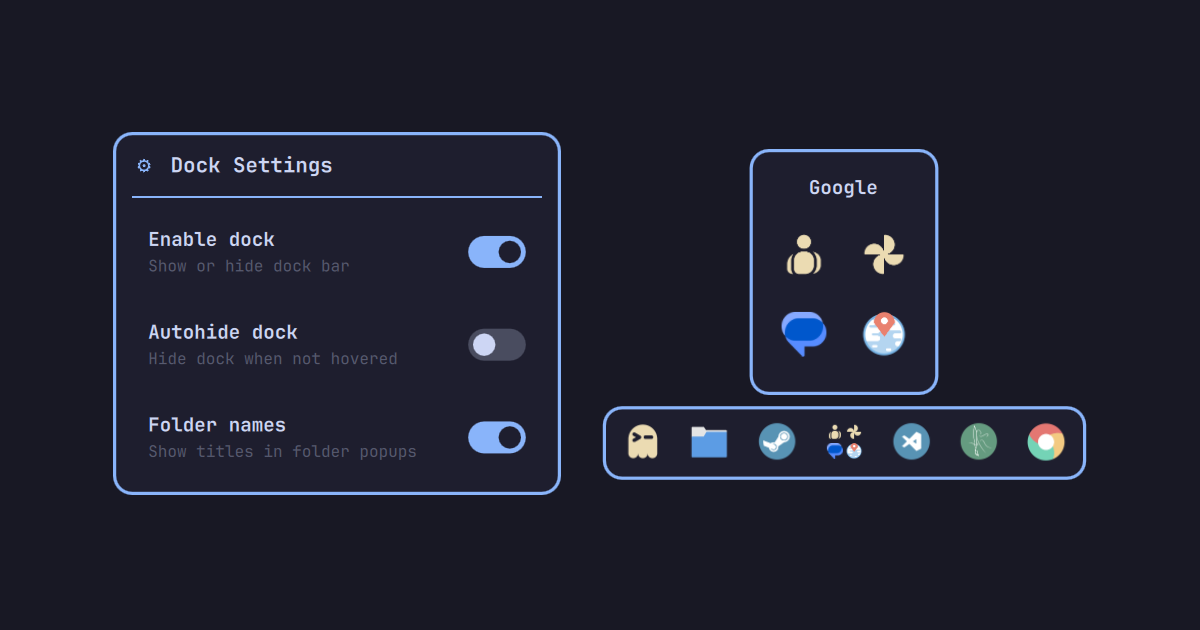
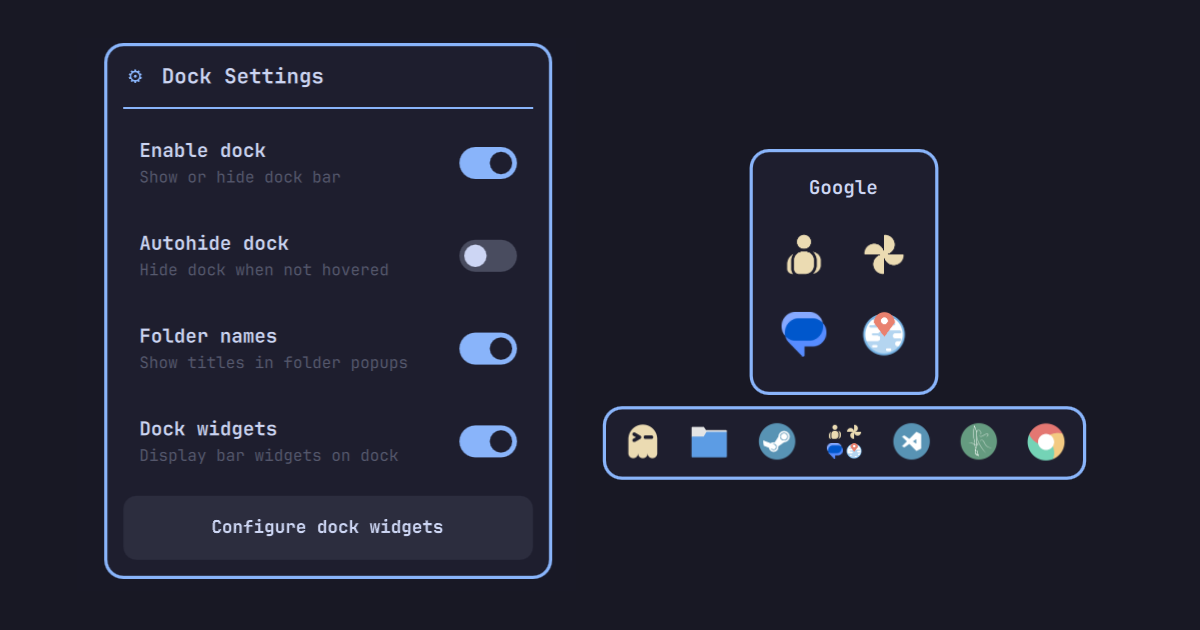
feat(release): bump version to 1.4.1 - ultrawide display scaling, standalone service lifecycle, apps launcher widget, and boot stability

Changed region(s): [[0.0617, 0.0603, 0.4933, 0.9349]]

diff --git a/DockPanel.qml b/DockPanel.qml
@@ -102,10 +102,18 @@ Item {
         function removeWidget(widgetId: string): string { root.removeDockWidget(widgetId, ""); return "ok" }
         function setWidgetsEnabled(val: string): string { root.setWidgetsEnabled(val === "true" || val === "1"); return "ok" }
         function setWidgetPosition(pos: string): string { root.setWidgetPosition(pos); return "ok" }
+        function setEditMode(val: string): string { root.isEditMode = (val === "true" || val === "1"); return "ok" }
         function setDockEnabled(val: string): string { root.dockEnabled = (val === "true" || val === "1"); root.saveSettings(); return "ok" }
         function setAutohide(val: string): string { root.autohide = (val === "true" || val === "1"); root.saveSettings(); return "ok" }
         function setShowFolderTitles(val: string): string { root.showFolderTitles = (val === "true" || val === "1"); root.saveSettings(); return "ok" }
         function ping(): string { return "ok" }
+    }
+
+    function openWidgetPicker() {
+        root.opened = true
+        if (widgetPicker) {
+            widgetPicker.opened = true
+        }
     }
 
     // Methods called by shell.summon / shell.hide / shell.toggle
@@ -307,8 +315,8 @@ Item {
     property bool autohide: false
     property bool showFolderTitles: true
     property bool widgetsEnabled: true
-    property string widgetPosition: "right"
-    property var dockWidgets: []
+    property string widgetPosition: "left"
+    property var dockWidgets: ["omarchy.apps"]
     property var widgetSavedPositions: ({})
     property bool isDockHovered: false
     property bool isStackHovered: false
@@ -372,7 +380,7 @@ Item {
 
     readonly property int activeWidgetsCount: (root.widgetsEnabled && root.dockWidgets) ? root.dockWidgets.length : 0
     readonly property bool hasWidgets: root.activeWidgetsCount > 0
-    readonly property real separatorSize: root.hasWidgets ? 12 : 0
+    readonly property real separatorSize: root.hasWidgets ? 8 : 0
     readonly property real itemsWidth: (root.dockItems.length * root.slotSize)
 
     property string clockDisplayText: ""
@@ -393,6 +401,13 @@ Item {
     readonly property real widgetsWidth: (root.hasClockWidget && !root.isVertical)
         ? ((root.activeWidgetsCount - 1) * root.slotSize + root.clockSlotWidth)
         : (root.activeWidgetsCount * root.slotSize)
+    // Dynamic max items limit for dock bar based on logical screen dimensions & scale (15 items on 1080p @ 1.6x, scales dynamically for Ultrawide 21:9 / 32:9)
+    readonly property real logicalScreenWidth: (screen && screen.width > 0) ? screen.width : 1200
+    readonly property real logicalScreenHeight: (screen && screen.height > 0) ? screen.height : 675
+    readonly property int maxDockItems: root.isVertical
+        ? Math.max(5, Math.round(15 * (logicalScreenHeight / 675)))
+        : Math.max(15, Math.round(15 * (logicalScreenWidth / 1200)))
+
     readonly property real totalDockDimension: Math.max(root.slotSize, itemsWidth + (root.hasWidgets ? (separatorSize + widgetsWidth) : 0))
 
     onDockEnabledChanged: {
@@ -454,6 +469,11 @@ Item {
                 if (s && s.widgetSavedPositions !== undefined && typeof s.widgetSavedPositions === "object") {
                     root.widgetSavedPositions = s.widgetSavedPositions
                 }
+            } else {
+                root.dockWidgets = ["omarchy.apps"]
+                root.widgetPosition = "left"
+                root.widgetsEnabled = true
+                saveSettings()
             }
         } catch(e) {}
     }
@@ -482,8 +502,8 @@ Item {
                 var currentSaved = JSON.parse(JSON.stringify(root.widgetSavedPositions || {}))
                 for (var i = 0; i < root.dockWidgets.length; i++) {
                     var wId = root.dockWidgets[i]
-                    if (wId) {
-                        var defReg = (wId === "omarchy.menu") ? "left" : ((wId === "omarchy.weather" || wId === "omarchy.clock" || wId === "omarchy.system-update" || wId === "omarchy.indicators") ? "center" : "right")
+                    if (wId && wId !== "omarchy.apps") {
+                        var defReg = ((wId === "omarchy.weather" || wId === "omarchy.clock" || wId === "omarchy.system-update" || wId === "omarchy.indicators") ? "center" : "right")
                         currentSaved = DockModel.returnWidgetToBar(root.shell, wId, currentSaved, defReg, shellConfigFile)
                     }
                 }
@@ -506,30 +526,34 @@ Item {
         if (root.dockWidgets && root.dockWidgets.length > 0) {
             for (var i = 0; i < root.dockWidgets.length; i++) {
                 var prevId = root.dockWidgets[i]
-                if (prevId && prevId !== widgetId) {
-                    var prevDefRegion = (prevId === "omarchy.menu") ? "left" : ((prevId === "omarchy.weather" || prevId === "omarchy.clock" || prevId === "omarchy.system-update" || prevId === "omarchy.indicators") ? "center" : "right")
+                if (prevId && prevId !== widgetId && prevId !== "omarchy.apps") {
+                    var prevDefRegion = ((prevId === "omarchy.weather" || prevId === "omarchy.clock" || prevId === "omarchy.system-update" || prevId === "omarchy.indicators") ? "center" : "right")
                     currentSaved = DockModel.returnWidgetToBar(root.shell, prevId, currentSaved, prevDefRegion, shellConfigFile)
                 }
             }
         }
         root.dockWidgets = [widgetId]
-        currentSaved = DockModel.removeWidgetFromBar(root.shell, widgetId, currentSaved, shellConfigFile)
+        if (widgetId !== "omarchy.apps") {
+            currentSaved = DockModel.removeWidgetFromBar(root.shell, widgetId, currentSaved, shellConfigFile)
+        }
         root.widgetSavedPositions = currentSaved
         saveSettings()
     }
 
     function removeDockWidget(widgetId, targetRegion) {
-        var defRegion = targetRegion || ((widgetId === "omarchy.menu") ? "left" : ((widgetId === "omarchy.weather" || widgetId === "omarchy.clock" || widgetId === "omarchy.system-update" || widgetId === "omarchy.indicators") ? "center" : "right"))
+        var defRegion = targetRegion || ((widgetId === "omarchy.weather" || widgetId === "omarchy.clock" || widgetId === "omarchy.system-update" || widgetId === "omarchy.indicators") ? "center" : "right")
         var next = DockModel.removeWidgetFromDockList(root.dockWidgets, widgetId)
         root.dockWidgets = next.slice()
-        var currentSaved = JSON.parse(JSON.stringify(root.widgetSavedPositions || {}))
-        currentSaved = DockModel.returnWidgetToBar(root.shell, widgetId, currentSaved, defRegion, shellConfigFile)
-        root.widgetSavedPositions = currentSaved
+        if (widgetId !== "omarchy.apps") {
+            var currentSaved = JSON.parse(JSON.stringify(root.widgetSavedPositions || {}))
+            currentSaved = DockModel.returnWidgetToBar(root.shell, widgetId, currentSaved, defRegion, shellConfigFile)
+            root.widgetSavedPositions = currentSaved
+        }
         saveSettings()
     }
 
     function getWidgetSource(widgetId) {
-        if (!widgetId) return ""
+        if (!widgetId || widgetId === "omarchy.apps") return ""
         var manifest = (root.shell && root.shell.pluginRegistry && root.shell.pluginRegistry.installedPlugins) ? root.shell.pluginRegistry.installedPlugins[widgetId] : null
         if (manifest && root.shell && root.shell.pluginRegistry) {
             var ep = root.shell.pluginRegistry.entryPointUrl(manifest, "barWidget")
@@ -547,7 +571,7 @@ Item {
 
     function getWidgetIcon(widgetId, item) {
         if (!widgetId) return ""
-        if (widgetId === "omarchy.menu") return "\ue900"
+        if (widgetId === "omarchy.apps") return ""
         if (widgetId === "omarchy.monitor") {
             return (Quickshell.screens && Quickshell.screens.length > 1) ? "" : ""
         }
@@ -771,7 +795,7 @@ Item {
         root.isEditingFolderTitle = false
         root.folderDragActiveIndex = -1
         root.folderDragTargetIndex = -1
-        root.currentFolderMergeTargetIndex = -1
+        root.currentMergeTargetIndex = -1
         if (widgetPicker) widgetPicker.opened = false
         root.closeAllWidgetPanels()
     }
@@ -1044,7 +1068,9 @@ Item {
             root.checkAndApplyTheme()
         }
         onFileChanged: {
+            reload()
             root.isGtkSettingsLoaded = true
+            root.iconsReady = false
             root.checkAndApplyTheme()
         }
     }
@@ -1065,9 +1091,9 @@ Item {
     property bool iconsReady: false
     property bool isDockVisualReady: false
 
-    function checkAndApplyTheme() {
-        if (root.iconsReady) return
+    property string activeThemeName: ""
 
+    function checkAndApplyTheme() {
         var txt = gtkSettingsFile.text()
         if (!txt || txt.trim().length === 0) {
             return
@@ -1096,6 +1122,7 @@ Item {
                         }
                     }
                     if (hasThemeIcons) {
+                        root.activeThemeName = themeName
                         root.iconRevision++
                         root.doUpdateDockItems()
                         root.iconsReady = true
@@ -1107,6 +1134,7 @@ Item {
         }
 
         // 2. Если сторонней темы нет — отображаем стандартные системные иконки
+        root.activeThemeName = themeName
         root.doUpdateDockItems()
         root.iconsReady = true
     }
@@ -1119,10 +1147,10 @@ Item {
         onTriggered: root.checkAndApplyTheme()
     }
 
-    // Защитный таймер: если поиск сторонней темы затянулся (экстремальный сбой), показываем стандартные
+    // Защитный таймер: если фоновый поиск темы затянулся, показываем доступные иконки
     Timer {
         id: iconsSafetyTimer
-        interval: 15000
+        interval: 10000
         running: !root.iconsReady
         repeat: false
         onTriggered: {
@@ -1148,7 +1176,12 @@ Item {
     Connections {
         target: (shell && shell.appLibrary) ? shell.appLibrary : null
         function onIconIndexChanged() {
-            root.checkAndApplyTheme()
+            if (!root.iconsReady) {
+                root.checkAndApplyTheme()
+            } else {
+                root.iconRevision++
+                root.doUpdateDockItems()
+            }
         }
         function onAppsChanged() {
             root.iconRevision++
@@ -1428,7 +1461,7 @@ Item {
                         }
 
                         onTogglePinRequested: function(appId) {
-                            root.setPinned(DockModel.togglePinned(root.pinnedIds, appId))
+                            root.setPinned(DockModel.togglePinned(root.pinnedIds, appId, root.maxDockItems))
                         }
 
                         onOriginalAppLaunched: function(appId) {
@@ -1529,7 +1562,7 @@ Item {
                             y: Math.round((parent.height - height) / 2) - 1
                             width: (modelData === "omarchy.clock" && !root.isVertical) ? (widgetSlotRoot.width - 10) : root.iconBaseSize
                             height: (modelData === "omarchy.clock" && root.isVertical) ? (root.slotSize - 8) : root.iconBaseSize
-                            scale: root.isEditMode ? 0.82 : (widgetSlotMouse.containsMouse ? 1.10 : 1.0)
+                            scale: widgetSlotMouse.containsMouse ? 1.10 : 1.0
                             Behavior on scale { NumberAnimation { duration: 180; easing.type: Easing.OutCubic } }
 
                             // 1. Live Clock Horizontal Text Display (Matches status bar exactly)
@@ -1580,9 +1613,9 @@ Item {
                                 anchors.centerIn: parent
                                 width: root.iconBaseSize
                                 height: root.iconBaseSize
-                                text: (modelData === "omarchy.menu") ? "\ue900" : root.getWidgetIcon(modelData, widgetLoader.item)
-                                fontFamily: (modelData === "omarchy.menu") ? "omarchy" : Style.font.family
-                                fontSize: (modelData === "omarchy.menu") ? 18 : 22
+                                text: root.getWidgetIcon(modelData, widgetLoader.item)
+                                fontFamily: Style.font.family
+                                fontSize: 22
                                 color: widgetSlotMouse.containsMouse ? Color.accent : Color.composed("popups.text", "popups.text-alpha", Color.text, 0.95)
                                 Behavior on color { ColorAnimation { duration: 120 } }
                             }
@@ -1609,27 +1642,25 @@ Item {
                             }
                         }
 
-                        // MouseArea for Click to Open Widget Panel / Cycle Format / Timezone / Remove in Edit Mode
+                        // MouseArea for Click to Open Widget Panel / Cycle Format / Timezone
                         MouseArea {
                             id: widgetSlotMouse
                             anchors.fill: parent
                             hoverEnabled: true
                             acceptedButtons: Qt.LeftButton | Qt.RightButton | Qt.MiddleButton
-                            cursorShape: root.isEditMode ? Qt.PointingHandCursor : Qt.PointingHandCursor
+                            cursorShape: root.isEditMode ? Qt.ArrowCursor : Qt.PointingHandCursor
                             onClicked: function(mouse) {
                                 if (root.isEditMode) {
                                     if (mouse.button === Qt.RightButton) {
                                         root.isEditMode = false
-                                        return
                                     }
-                                    root.removeDockWidget(modelData, "")
                                     return
                                 }
-                                if (modelData === "omarchy.menu") {
-                                    if (root.shell && typeof root.shell.summon === "function") {
-                                        root.shell.summon("omarchy.menu")
+                                if (modelData === "omarchy.apps") {
+                                    if (mouse.button === Qt.RightButton) {
+                                        Util.execDetached("omarchy-menu toggle root")
                                     } else {
-                                        Util.execDetached("omarchy-menu")
+                                        Util.execDetached("omarchy-menu toggle apps")
                                     }
                                     return
                                 }
@@ -1656,40 +1687,6 @@ Item {
                                             else target.open()
                                         }
                                     }
-                                }
-                            }
-                        }
-
-                        // Remove from Dock Badge ("-") in Edit Mode
-                        Item {
-                            id: removeWidgetBadge
-                            visible: root.isEditMode && !root.isAnyDragging
-                            anchors.horizontalCenter: widgetWrapper.horizontalCenter
-                            anchors.bottom: widgetWrapper.top
-                            anchors.bottomMargin: -5
-                            width: 20
-                            height: 20
-                            z: 200
-
-                            DockGlyph {
-                                anchors.centerIn: parent
-                                width: parent.width
-                                height: parent.height
-                                text: "-"
-                                fontFamily: Style.font.family
-                                fontSize: 16
-                                color: removeBadgeMouse.containsMouse ? Color.accent : Color.composed("popups.text", "popups.text-alpha", Color.text, 0.85)
-                                scale: removeBadgeMouse.containsMouse ? 1.25 : 1.0
-                                Behavior on scale { NumberAnimation { duration: 150; easing.type: Easing.OutCubic } }
-                            }
-
-                            MouseArea {
-                                id: removeBadgeMouse
-                                anchors.fill: parent
-                                hoverEnabled: true
-                                cursorShape: Qt.PointingHandCursor
-                                onClicked: {
-                                    root.removeDockWidget(modelData, "")
                                 }
                             }
                         }

diff --git a/components/WidgetPickerPopup.qml b/components/WidgetPickerPopup.qml
@@ -206,7 +206,7 @@ PanelWindow {
                 spacing: 4
 
                 readonly property var standardWidgets: [
-                    { id: "omarchy.menu", name: "Omarchy Menu", icon: "\ue900", fontFamily: "omarchy", defaultRegion: "left" },
+                    { id: "omarchy.apps", name: "Apps", icon: "", defaultRegion: "" },
                     { id: "omarchy.clock", name: "Clock & Calendar", icon: "", defaultRegion: "center" },
                     { id: "omarchy.weather", name: "Weather", icon: "", defaultRegion: "center" },
                     { id: "omarchy.audio", name: "Volume & Audio", icon: "", defaultRegion: "right" },
@@ -223,7 +223,7 @@ PanelWindow {
                         var w = standardWidgets[i]
                         // Only show installed widgets
                         var isInstalled = true
-                        if (pickerWindow.shell && pickerWindow.shell.pluginRegistry && pickerWindow.shell.pluginRegistry.installedPlugins) {
+                        if (w.id !== "omarchy.apps" && pickerWindow.shell && pickerWindow.shell.pluginRegistry && pickerWindow.shell.pluginRegistry.installedPlugins) {
                             isInstalled = (pickerWindow.shell.pluginRegistry.installedPlugins[w.id] !== undefined)
                         }
                         if (!isInstalled) continue
@@ -267,7 +267,7 @@ PanelWindow {
                                 height: 16
                                 text: modelData.icon
                                 fontFamily: modelData.fontFamily ? modelData.fontFamily : Style.font.family
-                                fontSize: (modelData.id === "omarchy.menu") ? 14 : 14
+                                fontSize: 14
                                 color: rowItem.isInDock ? Color.accent : Color.menu.text
                             }
                         }

diff --git a/BarWidget.qml b/BarWidget.qml
@@ -569,12 +569,13 @@ BarWidget {
             onClicked: {
               root.settingsOpen = false
               var sh = root.shell || (root.bar ? root.bar.shell : null)
-              if (sh && typeof sh.summon === "function") {
-                sh.summon("rosakodu.dock", { action: "openWidgetPicker" })
+              var dockSvc = (sh && typeof sh.serviceFor === "function") ? sh.serviceFor("rosakodu.dock") : null
+              if (dockSvc && typeof dockSvc.openWidgetPicker === "function") {
+                dockSvc.openWidgetPicker()
               } else if (root.bar && typeof root.bar.run === "function") {
-                root.bar.run("omarchy-shell shell summon rosakodu.dock '{\"action\":\"openWidgetPicker\"}'")
+                root.bar.run("omarchy-shell rosakodu.dock openWidgetPicker")
               } else {
-                Util.execDetached("omarchy-shell shell summon rosakodu.dock '{\"action\":\"openWidgetPicker\"}'")
+                Util.execDetached("omarchy-shell rosakodu.dock openWidgetPicker")
               }
             }
           }

diff --git a/DockModel.js b/DockModel.js
@@ -103,7 +103,7 @@ function serializePinned(pinnedList) {
     return JSON.stringify({ pinned: cleaned }, null, 2);
 }
 
-function togglePinned(pinnedList, appId) {
+function togglePinned(pinnedList, appId, maxItems) {
     var arr = Array.isArray(pinnedList) ? pinnedList.slice() : [];
     var id = stripDesktop(appId);
     if (!id) return arr;
@@ -119,6 +119,10 @@ function togglePinned(pinnedList, appId) {
                 return arr;
             }
         }
+    }
+
+    if (maxItems && maxItems > 0 && arr.length >= maxItems) {
+        return arr;
     }
 
     arr.push(id);

diff --git a/README.md b/README.md
@@ -65,7 +65,10 @@ You can customize options directly via the `···` status bar widget or in `~/.
   "autohide": false,
   "showFolderTitles": true,
   "widgetsEnabled": true,
-  "widgetPosition": "right"
+  "widgetPosition": "left",
+  "dockWidgets": [
+    "omarchy.apps"
+  ]
 }
 ```
 
